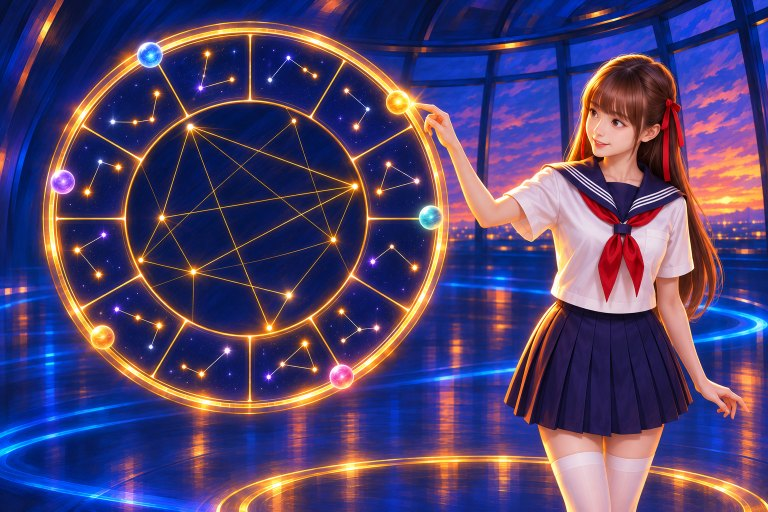
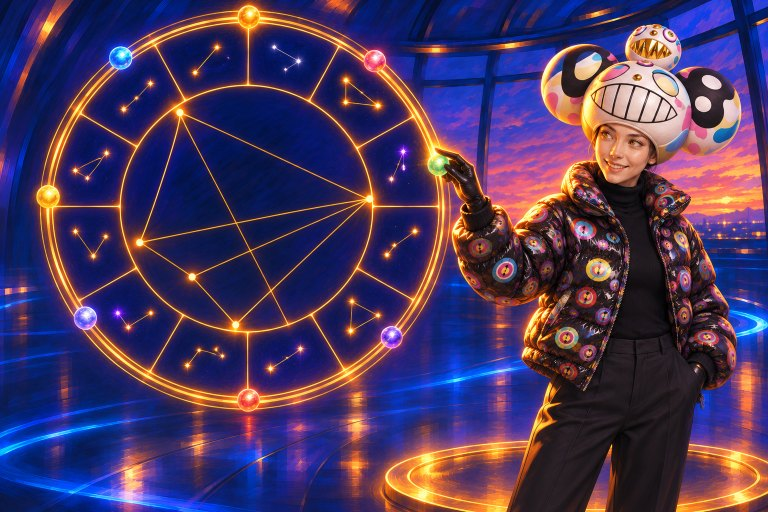
feat(explore): 門面與星座頁插畫換成史旺姬＋CloneX #17152 版本（站主確認可用）

diff --git a/explore/index.html b/explore/index.html
@@ -35,7 +35,7 @@ extra_css: |
   .tool-art { display: block; border: 1px solid #E5A300; border-radius: 16px; overflow: hidden; background: #1b2140; box-shadow: 0 14px 38px rgba(108,78,10,.10); }
   .tool-art img { display: block; width: 100%; height: 100%; object-fit: cover; }
   .explore-hero-art { aspect-ratio: 2 / 1; max-height: 170px; margin: 0 auto 18px; }
-  .explore-hero-art img { object-position: 60% 40%; }
+  .explore-hero-art img { object-position: 50% 12%; }
   @media (min-width: 992px) {
     .explore-hero-grid { display: grid; grid-template-columns: minmax(0, 1.1fr) minmax(0, .9fr); gap: 48px; align-items: center; }
     .explore-hero-art { order: 2; aspect-ratio: 3 / 2; max-height: none; max-width: 520px; width: 100%; margin: 0; border-radius: 20px; }
